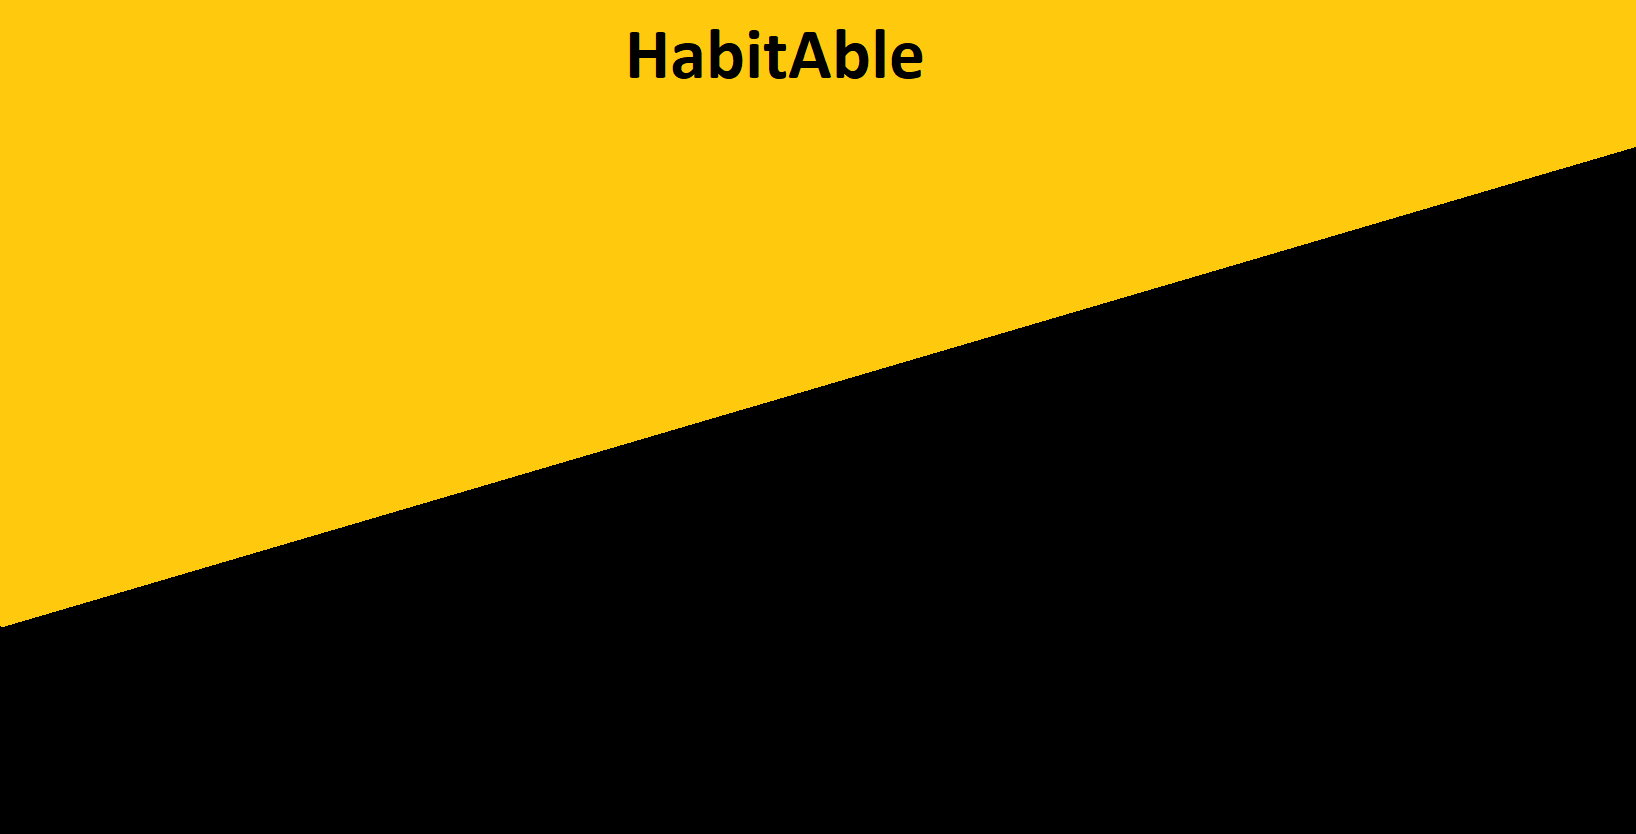
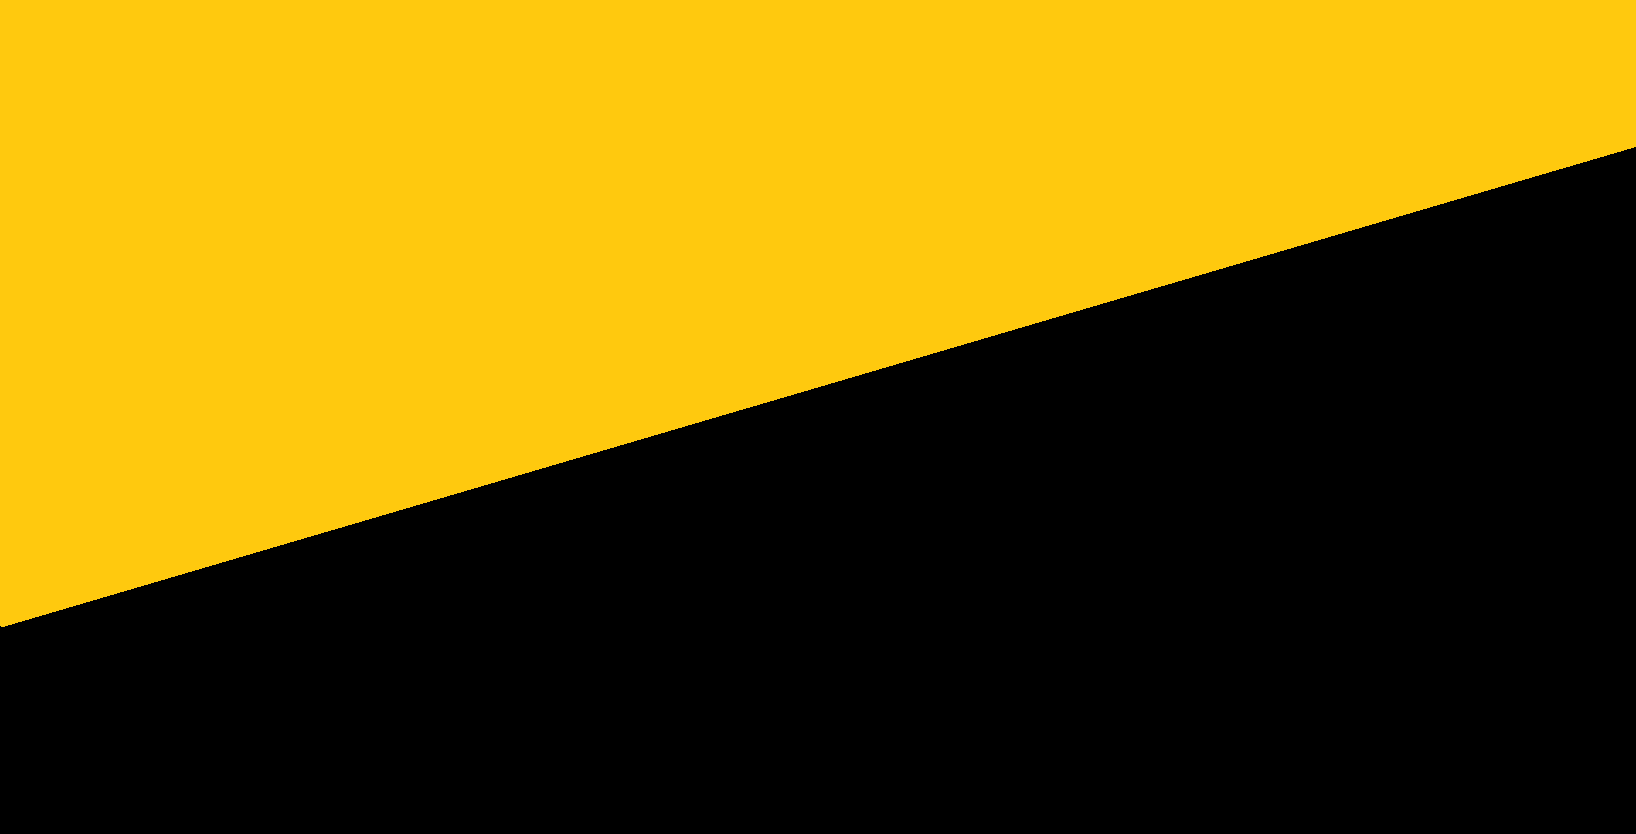
first push

Changed region(s): [[0.3741, 0.0312, 0.5611, 0.0935]]

diff --git a/src/components/Login.js b/src/components/Login.js
@@ -142,7 +142,7 @@ class Log extends Component
       </div>
 
     </section>
-
+    <h1 style={{position:"absolute",top:"20px", textAlign:"center",fontSize:"40px", width:"100%", textShadow:"2px 2px #fc633d, -2px -2px #fffef2"}}>HabitAble</h1>
     </div>
 
 );
